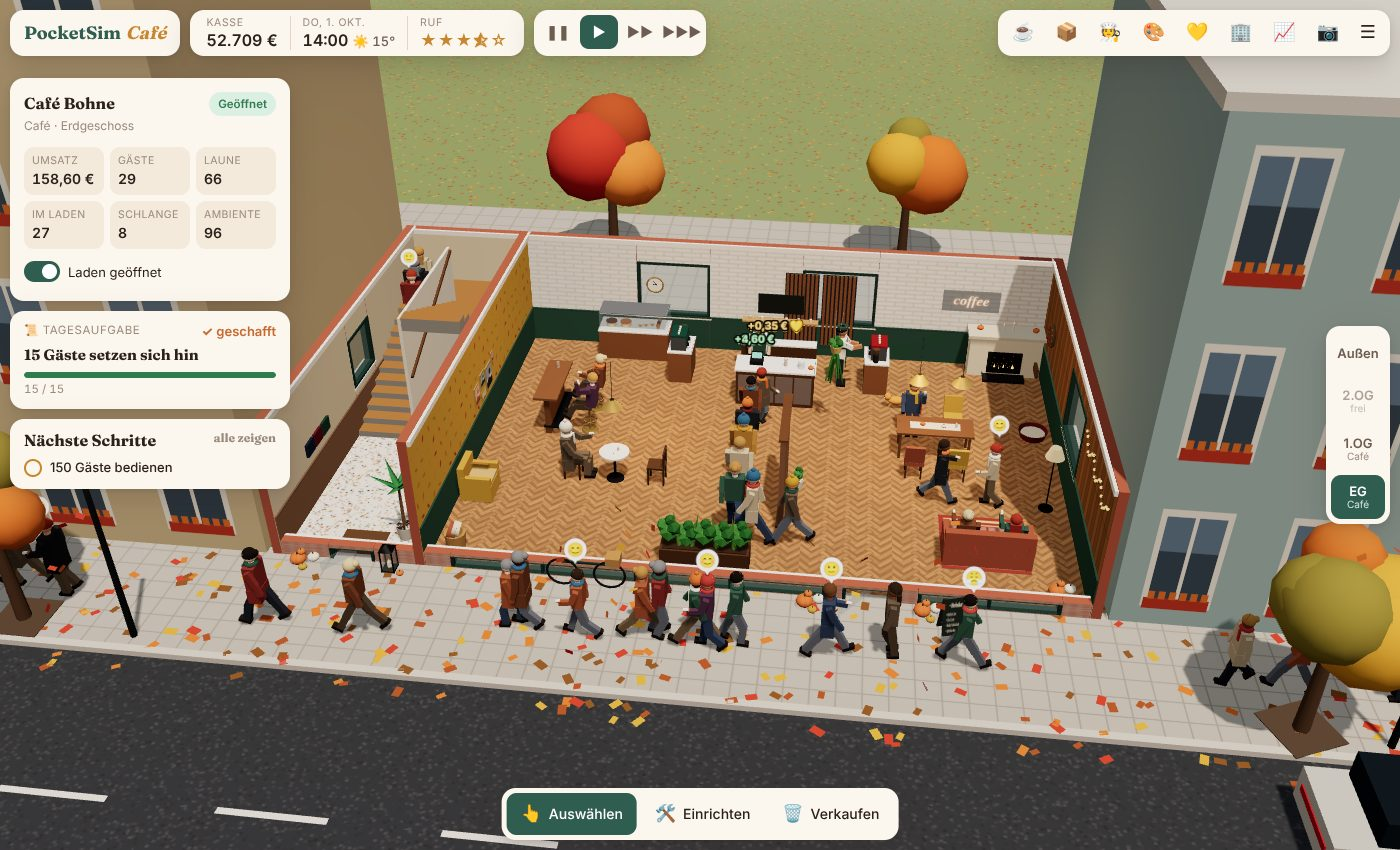
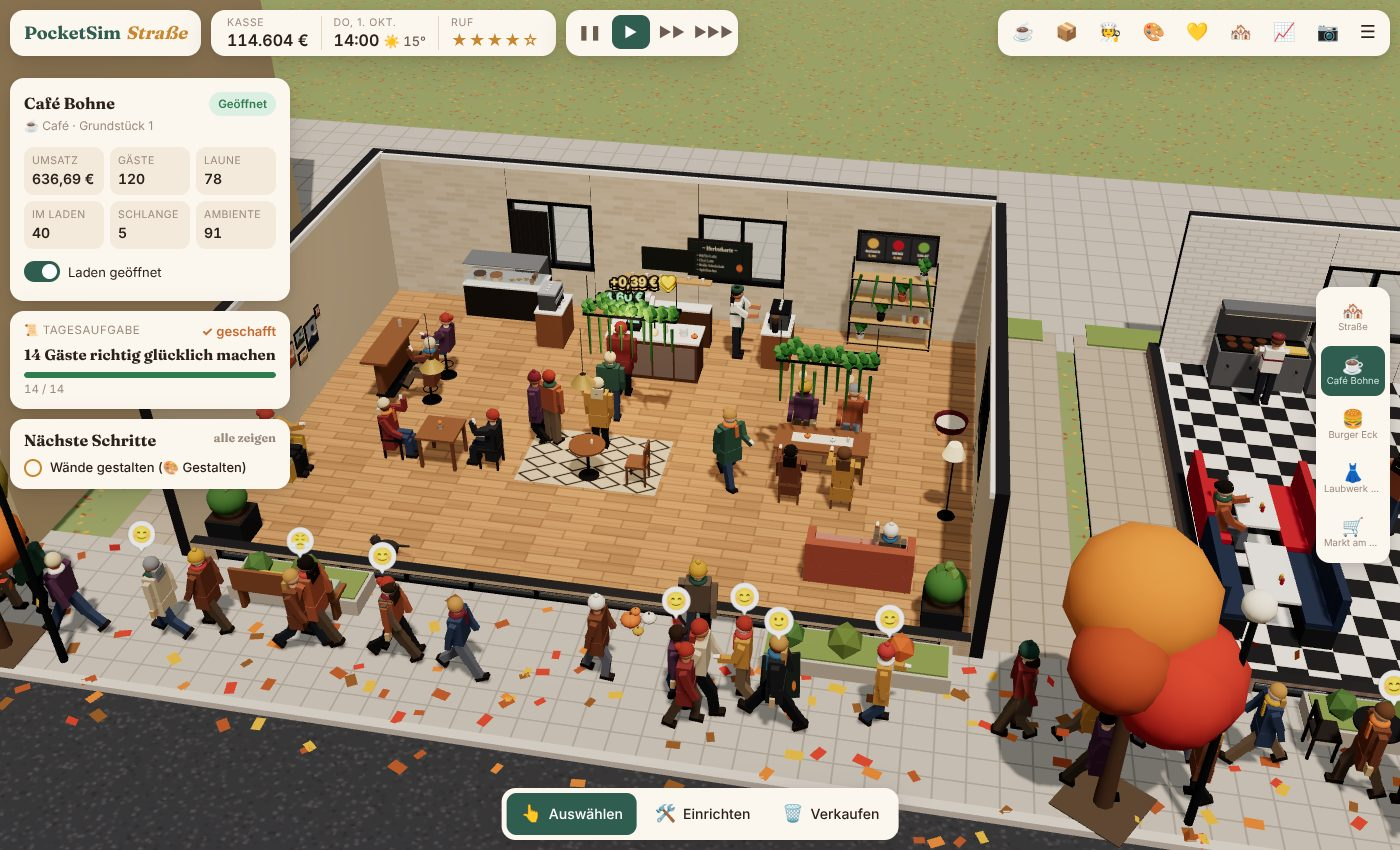
README und Screenshots für die Ladenstraße, hellere Supermarkt-Regale
Claude-Session: https://claude.ai/code/session_015Ydj2q2jVswiMqobiBooN4

diff --git a/src/data.js b/src/data.js
@@ -189,10 +189,10 @@ export const FURNITURE = {
   obststand: { name: 'Obst & Gemüse', cat: 'service', shops: ['supermarkt'], w: 2, d: 1, cost: 520, provides: 'produce', decor: 2, v: WOOD, desc: 'Holzkisten mit Äpfeln, Kürbissen und Kohl.' },
   brotregal: { name: 'Brotregal', cat: 'service', shops: ['supermarkt'], w: 2, d: 1, cost: 480, provides: 'bread', v: WOOD, desc: 'Brot und Brötchen vom Bäcker.' },
   kuehlregal: { name: 'Kühlregal', cat: 'service', shops: ['supermarkt'], w: 2, d: 1, cost: 1100, provides: 'dairy', glow: true, v: ['#e7e3db', '#2b2b2e'], desc: 'Milch, Käse, Joghurt.' },
-  getraenkeregal: { name: 'Getränkeregal', cat: 'service', shops: ['supermarkt'], w: 2, d: 1, cost: 520, provides: 'bev', v: ['#26262a', '#e7e3db'], desc: 'Wasser, Saft und Limo.' },
-  suessregal: { name: 'Süßwarenregal', cat: 'service', shops: ['supermarkt'], w: 2, d: 1, cost: 480, provides: 'sweets', v: ['#26262a', '#e7e3db'], desc: 'Schokolade, Chips und Kekse.' },
+  getraenkeregal: { name: 'Getränkeregal', cat: 'service', shops: ['supermarkt'], w: 2, d: 1, cost: 520, provides: 'bev', v: ['#e7e3db', '#2f5d50', '#26262a'], desc: 'Wasser, Saft und Limo.' },
+  suessregal: { name: 'Süßwarenregal', cat: 'service', shops: ['supermarkt'], w: 2, d: 1, cost: 480, provides: 'sweets', v: ['#e7e3db', '#2f5d50', '#26262a'], desc: 'Schokolade, Chips und Kekse.' },
   tiefkuehl: { name: 'Tiefkühltruhe', cat: 'service', shops: ['supermarkt'], w: 2, d: 1, cost: 1200, provides: 'frozen', glow: true, v: ['#e7e3db', '#2c3a50'], desc: 'Pizza, Gemüse und Eis.' },
-  drogerie: { name: 'Drogerieregal', cat: 'service', shops: ['supermarkt'], w: 2, d: 1, cost: 500, provides: 'drug', v: ['#e7e3db', '#26262a'], desc: 'Seife, Zahnpasta und Co.' },
+  drogerie: { name: 'Drogerieregal', cat: 'service', shops: ['supermarkt'], w: 2, d: 1, cost: 500, provides: 'drug', v: ['#e7e3db', '#2f5d50', '#26262a'], desc: 'Seife, Zahnpasta und Co.' },
   wagenbox: { name: 'Einkaufswagen', cat: 'room', shops: ['supermarkt'], w: 1, d: 1, cost: 160, decor: 1, v: ['#c9ccd1', '#2f5d50'], desc: 'Ein paar Wagen am Eingang.' },
 
   // Sitzen

diff --git a/src/models.js b/src/models.js
@@ -836,7 +836,8 @@ const BUILDERS = {
   },
   kuehlregal(g, c) {
     box(g, 1.9, 2.0, 0.6, c, 0, 0, -0.2, { r: 0.4 });
-    box(g, 1.8, 1.6, 0.04, '#0f1d24', 0, 0.25, 0.09, { r: 0.6 });
+    box(g, 1.8, 1.6, 0.03, '#bcd6df', 0, 0.25, 0.1, { r: 0.05, o: 0.28 });
+    for (const x of [-0.45, 0.45]) box(g, 0.03, 1.6, 0.05, '#c9ccd1', x, 0.25, 0.1, { m: 0.6 });
     box(g, 1.7, 0.04, 0.5, '#e8f6ff', 0, 1.88, -0.15, { e: '#d8f0ff', ei: 1.0, g: true });
     const cols = ['#f4f4f0', '#5aa0d8', '#e8c06a', '#7aa04a', '#e86a8a', '#f4f4f0'];
     for (let r = 0; r < 4; r++) for (let i = 0; i < 7; i++) {

diff --git a/README.md b/README.md
@@ -1,10 +1,10 @@
-# PocketSim Café
+# PocketSim Straße
 
-> Du übernimmst ein leeres Ladenlokal in der Altstadt. Stell eine Theke auf, kauf eine Siebträgermaschine, stell Baristas ein und finde die richtigen Preise. Gäste kommen von der Straße herein, stellen sich an der Kasse an, bezahlen und setzen sich ab und zu an einen freien Tisch. Wenn das Café läuft, mietest du die oberen Etagen dazu.
+> Oktober in der Altstadt. Du kaufst Grundstücke an einer herbstlichen Straße und baust darauf deine eigenen Läden: ein gemütliches Café, einen Burgerladen, eine Boutique, einen Supermarkt. Jeder Laden ist ein kleines Schnittmodell, in das du hineinschauen und das du bis ins Detail einrichten kannst.
 
-![Das Café im Erdgeschoss mit Gästen an der Theke und an den Tischen](docs/screenshots/cafe.jpg)
+![Die Ladenstraße am Abend mit Café, Fast Food, Boutique und Supermarkt](docs/screenshots/strasse.jpg)
 
-PocketSim Café ist eine Wirtschaftssimulation im Browser. Die 3D-Grafik läuft mit Three.js. Es gibt keinen Build-Schritt und keinen Login, und das Spiel läuft am Desktop genauso wie auf dem Handy.
+PocketSim ist eine gemütliche Wirtschaftssimulation im Browser. Die 3D-Grafik läuft mit Three.js. Es gibt keinen Build-Schritt und keinen Login, und das Spiel läuft am Desktop genauso wie auf dem Handy.
 
 ## Spielen
 
@@ -21,67 +21,78 @@ Auf dem iPhone geht das mit Pythonista und `server.py` (inklusive Live-Reload).
 |---|---|---|
 | Kamera drehen | linke Maustaste ziehen | ein Finger |
 | Verschieben / Zoomen | rechte Maustaste / Mausrad | zwei Finger |
+| Laden wechseln | Leiste rechts, `Bild ↑` / `Bild ↓`, in der Straßenansicht auf einen Laden klicken | Leiste rechts |
 | Möbel platzieren | Klick | antippen (Vorschau), nochmal antippen |
 | Möbel drehen | `R` | ⟳-Knopf |
-| Etage wechseln | `Bild ↑` / `Bild ↓` | Etagenleiste rechts |
 | Pause / Tempo | Leertaste, `1` `2` `3` | Knöpfe oben |
+| Fotomodus | `P` | 📷 |
+
+## Die Läden
+
+Zu Beginn wählst du, mit welchem Laden du anfängst. Weitere Grundstücke kaufst du im Fenster **Straße** (🏘) und eröffnest dort einen beliebigen Laden.
+
+| Laden | So kaufen die Leute ein | Was du brauchst |
+|---|---|---|
+| ☕ **Café** | an der Theke bestellen, oft hinsetzen | Theke, Siebträger, Vitrine, Tische und Stühle |
+| 🍔 **Fast Food** | bestellen, mehrere Sachen pro Bestellung, oft hinsetzen | Bestelltresen, Grill, Fritteuse, Getränke- und Shake-Station, Diner-Sitzecken |
+| 👗 **Boutique** | zwischen den Warenträgern stöbern, anprobieren, an der Kasse zahlen | Kassentresen, Kleiderstangen, Präsentiertische, Schuhregal, Accessoire-Stand, Umkleide |
+| 🛒 **Supermarkt** | Korb an mehreren Regalen füllen, an der Kasse zahlen | Kasse mit Band, Obststand, Brot-, Kühl-, Getränke-, Süßwaren-, Drogerieregal, Tiefkühltruhe |
+
+| Café | Fast Food |
+|---|---|
+| ![Café](docs/screenshots/cafe.jpg) | ![Fast Food](docs/screenshots/fastfood.jpg) |
+| **Boutique** | **Supermarkt** |
+| ![Boutique](docs/screenshots/boutique.jpg) | ![Supermarkt](docs/screenshots/supermarkt.jpg) |
+
+Die Läden spielen sich unterschiedlich: Das Café lebt von Ambiente und Sitzplätzen, Fast Food von schneller Zubereitung mit mehreren Geräten, die Boutique von wenigen Kund:innen mit großen Bons (eine Umkleide lässt sie öfter kaufen), der Supermarkt von vielen Kund:innen mit vollen Körben und kleinen Margen.
 
 ## So läuft ein Tag
 
-```mermaid
-flowchart LR
-    S([Straße]) -->|liest die Karte| T{zu teuer?}
-    T -->|ja| W([geht weiter])
-    T -->|nein| Q[Schlange an der Kasse]
-    Q -->|zu lange gewartet| A([geht verärgert])
-    Q --> B[bestellt & bezahlt]
-    B -->|ab und zu| P[setzt sich an einen freien Platz]
-    B --> L([geht mit Becher])
-    P --> L
-```
+- **Öffnungszeiten** 8–19 Uhr. Abends gibt es eine Abrechnung je Laden, mit Wettervorhersage für morgen.
+- **Kosten**: Wareneinkauf, Löhne (75 € pro Person und Tag) und laufende Kosten je Grundstück.
+- **Personal**: Jede Kasse braucht eine Person. Wer übrig ist, hilft bei der Zubereitung oder beim Einpacken und macht alles schneller.
+- **Preise**: Jedes Produkt hat einen fairen Preis. Wer deutlich darüber liegt, verdient pro Verkauf mehr, verliert aber Kundschaft und Laune.
+- **Lager**: Frische Ware (Backwaren, Brot, Obst) verdirbt abends. Die Auto-Bestellung kauft nach, kostet aber 10 % Aufschlag.
+- **Ruf und Ambiente**: Deko, Vielfalt, Sitzplätze bzw. Warenträger und deine Gestaltung machen einen Laden attraktiv. Zufriedene Kundschaft verbessert den Ruf, der Ruf bringt neue Kundschaft.
 
-- **Öffnungszeiten** 8–19 Uhr. Der Tag beginnt um 7 Uhr, nach Ladenschluss gibt es die Tagesabrechnung.
-- **Kosten**: Wareneinkauf, Löhne (75 € je Barista und Tag) und Miete je Etage.
-- **Theke mit Kasse**: Ohne Theke kann niemand bestellen. Jede Kasse braucht eine Barista. Zusätzliche Baristas helfen an der Maschine und machen den Service schneller.
-- **Siebträger-Station** ist Pflicht für Kaffee und Tee, die **Kuchenvitrine** für Croissants, Kuchen, Muffins und Sandwiches.
-- **Sitzplätze**: Ein Stuhl zählt nur mit einem Tisch daneben und dreht sich automatisch zu ihm. Sofa und Sessel brauchen keinen Tisch.
-- **Ambiente**: Pflanzen, Lampen, Regale, Teppiche und die Musikbox machen das Café attraktiver. Das lockt mehr Gäste an und hebt die Laune.
-- **Preise**: Jedes Produkt hat einen fairen Preis. Wer deutlich darüber liegt, verdient pro Tasse mehr, verliert aber Gäste und Laune.
-- **Lager**: Backwaren verderben abends. Die Auto-Bestellung kauft nach, wenn ein Vorrat zur Neige geht, kostet aber 10 % Liefergebühr.
-- **Ruf**: Die Laune jedes Gastes fließt in deinen Ruf ein, und der Ruf bestimmt, wie viele Leute hereinkommen.
+## Herbst und Gemütlichkeit
 
-![Zweites Café im 1. Obergeschoss, Gäste kommen über das Treppenhaus](docs/screenshots/obergeschoss.jpg)
+- **Wetter**: Sonne, Wolken, Regen (mit Regenschirmen), Nebel und Herbststurm. Bei Schmuddelwetter zieht es mehr Leute ins Café und zum Imbiss, und sie bleiben länger sitzen. An kalten Tagen sind warme Produkte gefragt.
+- **Herbst-Specials** wie Kürbis-Latte, Apfelkuchen, Kürbis-Burger oder Bratapfel-Shake schaltest du einzeln frei.
+- **Stammkundschaft**: 16 Nachbar:innen mit Namen und Lieblingsprodukt. Mit jedem schönen Besuch wachsen die Herzen, und mit vielen Herzen gibt es mehr Trinkgeld.
+- **Ladenkatzen**: Mit einem Katzenkörbchen zieht eine Katze ein, streunt durch den Laden und besucht die Gäste. Man kann sie streicheln.
+- **Tagesaufgaben** mit Belohnung, ein Kalender ab dem 1. Oktober, frühe Dämmerung mit warm leuchtenden Schaufenstern und Schriftzügen.
 
-## Mehrere Etagen
+## Personalisieren
 
-Das Gebäude hat drei Etagen. Das Erdgeschoss gehört dir von Anfang an, das 1. und 2. Obergeschoss kannst du unter **Etagen** anmieten und dort einen eigenen Laden eröffnen. Jeder Laden hat eigene Speisekarte, eigenes Lager und eigenes Personal. Gäste der oberen Etagen gehen durch den Eingang im Erdgeschoss und nehmen das Treppenhaus. Das Treppenhaus und die Wege dorthin dürfen nicht zugebaut werden.
+![Gestalten-Fenster mit Wandmustern, Farben und Böden](docs/screenshots/gestalten.jpg)
 
-Spielbar ist bisher nur das **Café**. Bäckerei, Buchladen und Boutique sind schon vorgesehen und als „bald verfügbar“ markiert.
-
-![Außenansicht des Gebäudes](docs/screenshots/aussen.jpg)
+- **Innen** (je Laden): jede Wand einzeln streichen und tapezieren (glatt, Streifen, Herbstlaub, Holz, Metro-Fliesen, Sichtmauerwerk, Sichtbeton, Karo), Lambris an/aus mit Farbe, 8 Böden, Deckenfarbe.
+- **Außen** (je Laden): Fassade (Klinker hell/rot/dunkel, Holzlamellen, Sichtbeton, Putz), Stahl- oder Holzvordach oder Markise, Farbe der Schriftzug-Tafel, Fensterrahmen.
+- **Möbel**: über 80 Objekte, fast alle in mehreren Farbvarianten. Dazu gehören Trennwände, Glaswände, Holzlamellen, Akustikpaneele, Stahlregale mit Grün, Efeu-Deckenrahmen, Pendel- und Rattanleuchten, Lichterketten, Kamin und Kürbisse. Wandobjekte richten sich automatisch an der nächsten Wand aus, Deckenobjekte hängen über Tischen.
+- **Sonstiges**: Ladenname, Schürzenfarbe des Personals, Fotomodus mit Morgen-, Mittags- und Abendlicht.
 
 ## Aufbau des Codes
 
 | Datei | Inhalt |
 |---|---|
-| `src/data.js` | Alle Zahlen: Etagen, Ladentypen, Möbel, Produkte, Waren, Nachfragekurve |
-| `src/sim.js` | Die Simulation ohne Grafik: Raster, Bauen, Gäste, Kassen, Wirtschaft, Speichern |
-| `src/path.js` | A*-Wegfindung auf dem Etagenraster |
-| `src/models.js` | Prozedurale Low-Poly-Modelle für Möbel und Figuren |
-| `src/render.js` | Three.js-Szene: Straße, Gebäude mit Schnittansicht, Figuren, Effekte |
-| `src/ui.js` | HUD, Baukatalog, Fenster (Speisekarte, Lager, Personal, Etagen, Bilanz) |
+| `src/data.js` | Alle Zahlen: Grundstücke, Ladentypen, Möbel, Produkte, Waren, Farben, Wetter, Aufgaben |
+| `src/sim.js` | Die Simulation ohne Grafik: Raster, Bauen, Kundschaft (Theke und Stöbern), Kassen, Wirtschaft, Speichern |
+| `src/path.js` | A*-Wegfindung auf dem Ladenraster |
+| `src/models.js` | Prozedurale Low-Poly-Modelle, Texturen, Figuren und Katze |
+| `src/render.js` | Three.js-Szene: Straße, Läden als Schnittmodelle, Figuren, Wetter, Licht |
+| `src/ui.js` | HUD, Baukatalog, Fenster (Karte, Lager, Team, Gestalten, Gäste, Straße, Bilanz) |
+| `src/audio.js` | Kleine Klangkulisse (Kasse, Regen, Schnurren) |
 | `src/main.js` | Spielschleife, Eingabe, Speichern im Browser |
 
 ### Einen neuen Ladentyp ergänzen
 
-Alles Ladenspezifische steht in `src/data.js`:
-
-1. In `SHOP_TYPES` den Typ auf `available: true` setzen und `defaultName` und `sitChance` angeben.
-2. Produkte in `PRODUCTS` mit `shop: '<typ>'` anlegen und die verbrauchten Waren in `SUPPLIES` eintragen.
-3. Einrichtung in `FURNITURE` mit `shops: ['<typ>']` anlegen. `register: true` macht ein Möbel zur Kasse. Für neue Ausstattungspflichten (wie `machine` oder `display` beim Café) muss `offerable()` in `sim.js` die Eigenschaft kennen.
+1. In `SHOP_TYPES` (`src/data.js`) einen Eintrag anlegen: `mode: 'counter'` (Theke, Sitzen) oder `'browse'` (Regale, Kasse), dazu Andrang, Startlook und Startbestand.
+2. Produkte in `PRODUCTS` mit `shop: '<typ>'` und `needs: '<warenträger>'` anlegen, die Waren in `SUPPLIES`.
+3. Einrichtung in `FURNITURE` mit `shops: ['<typ>']`: eine Kasse mit `register: true`, Warenträger mit `provides: '<warenträger>'`.
 4. In `src/models.js` ein Modell für jedes neue Möbel ergänzen.
 
-Gäste, Schlangen, Sitzplätze, Treppen, Lager, Personal und Abrechnung funktionieren dann ohne weitere Änderungen.
+Kundschaft, Schlangen, Sitzplätze, Stöbern, Lager, Personal, Gestaltung und Abrechnung funktionieren dann ohne weitere Änderungen.
 
 ## Tests
 
